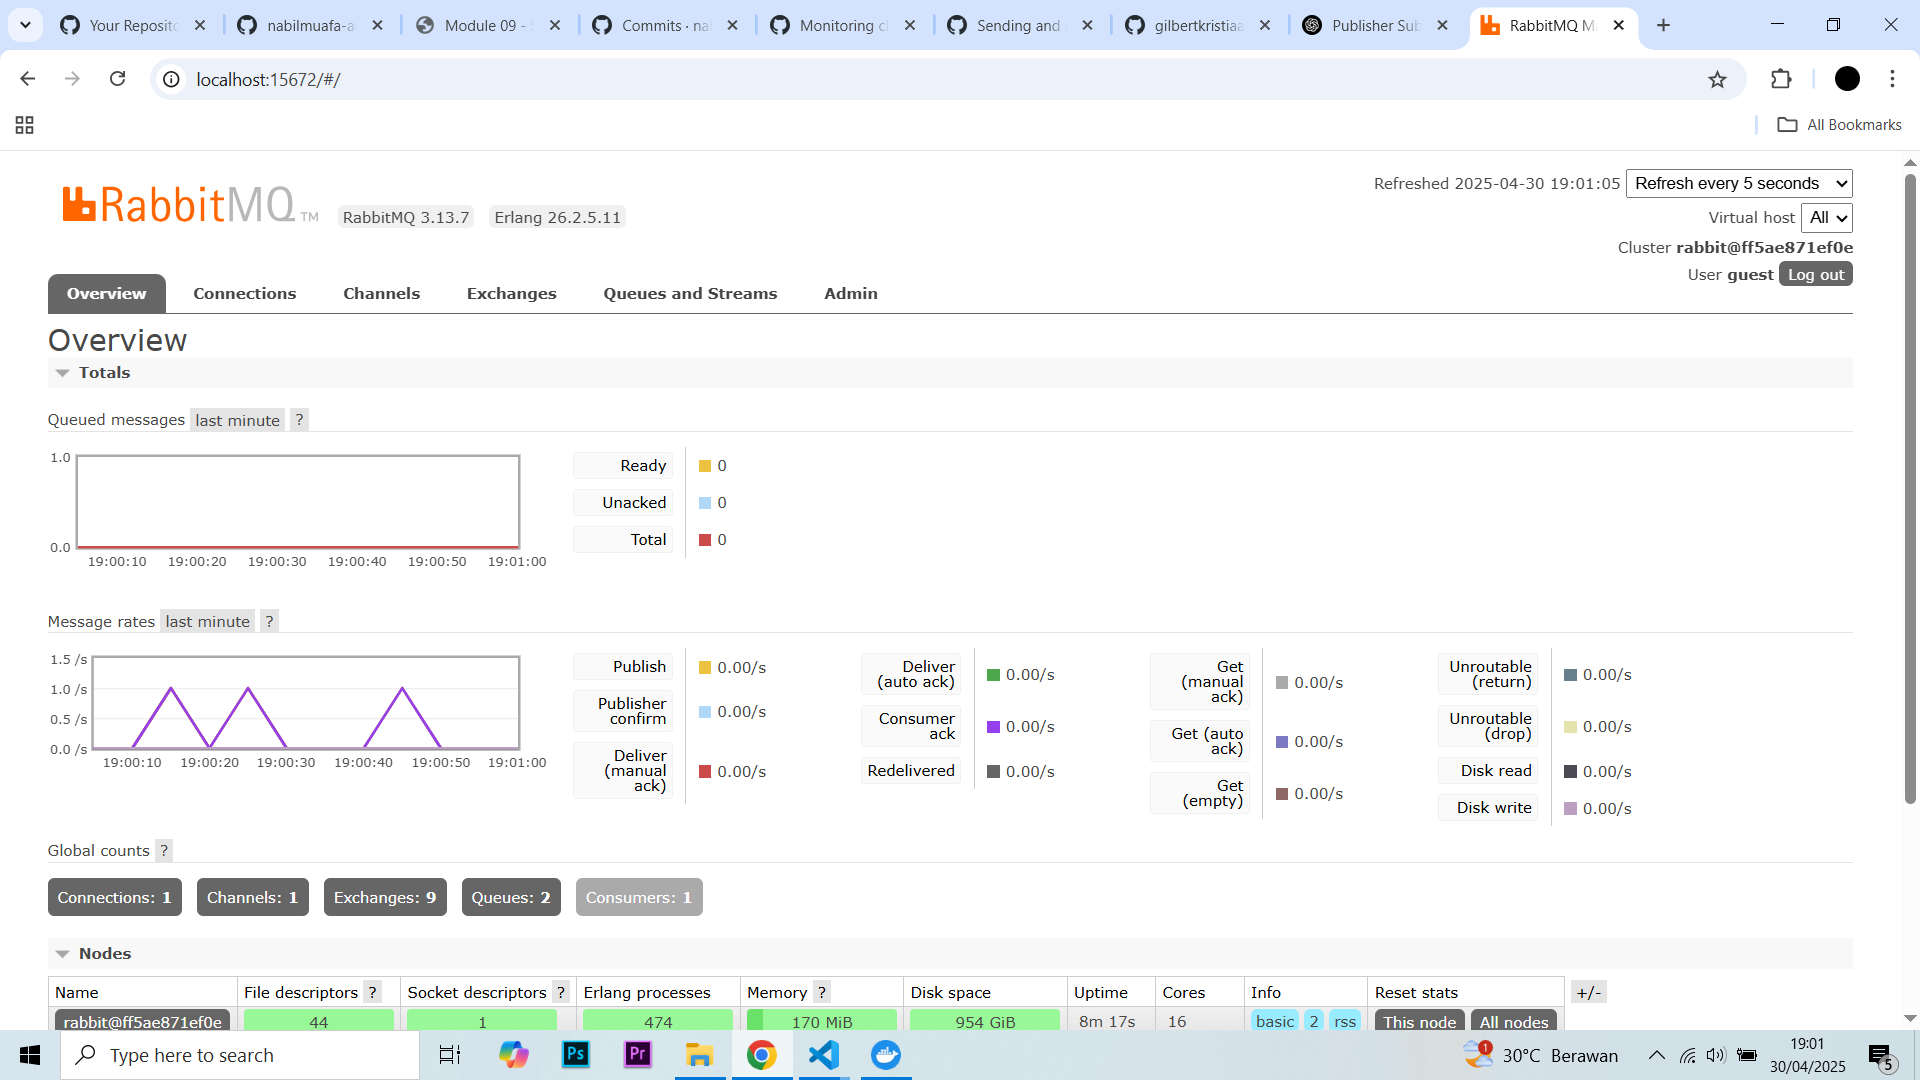
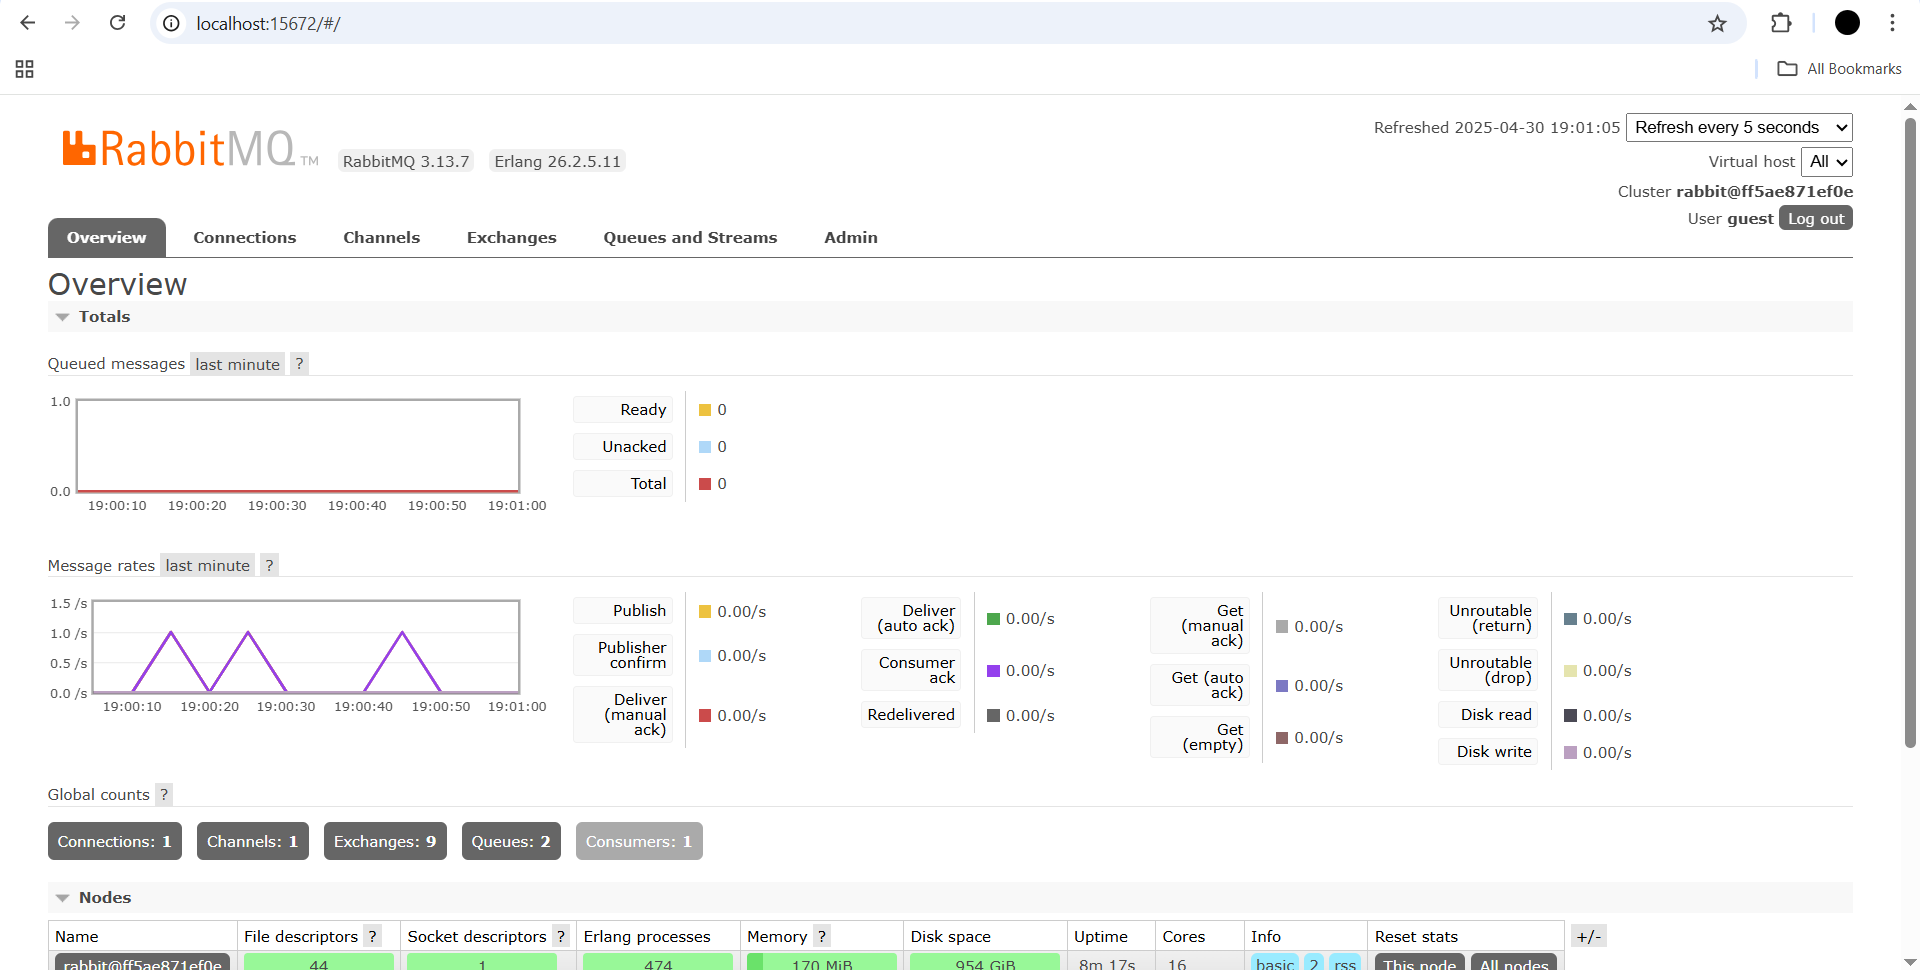
fix image screenshot

diff --git a/README.md b/README.md
@@ -21,4 +21,4 @@ When the publisher is executed, it sends 5 pieces of data to the RabbitMQ server
 
 ![Message ss](ss/3.png)
 
-The second graph (shown at the bottom) represents the message rate. This graph calculates the rate of messages received per second. In the displayed example, the publisher program sends multiple messages over a short period, which results in a series of spikes on the graph. The higher spikes indicate periods with more messages being sent within a shorter time frame, while the lower ones represent quieter intervals. The varying message rate is visualized through these fluctuations in the graph.
+The graph represents the message rate. This graph calculates the rate of messages received per second. In the displayed example, the publisher program sends multiple messages over a short period, which results in a series of spikes on the graph. The higher spikes indicate periods with more messages being sent within a shorter time frame, while the lower ones represent quieter intervals. The varying message rate is visualized through these fluctuations in the graph.
